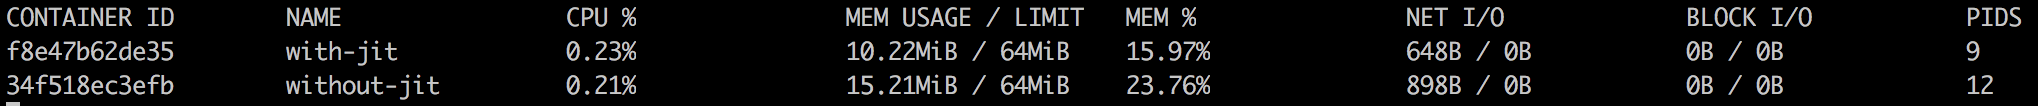
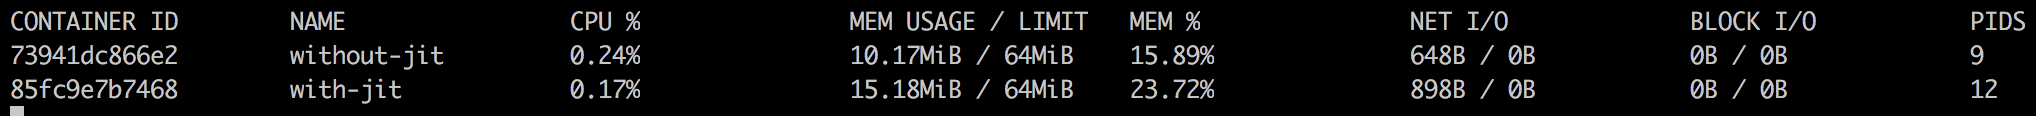
fix disabling jit + docket stats

diff --git a/README.md b/README.md
@@ -341,11 +341,11 @@ Total: reserved=1355555KB, committed=43759KB
 ## Docker Stats, Disabling JIT Compiler
 
 ```
-docker run -it --memory 64m --memory-swap 64m --name without-jit -v $(pwd)/target/classes:/src -w /src openjdk:11-jre java \
+docker run -it --memory 64m --memory-swap 64m --name with-jit -v $(pwd)/target/classes:/src -w /src openjdk:11-jre java \
 --add-exports=java.management/sun.management=docker.limits \
 --module-path . --module docker.limits/pbouda.sandbox.docker.MemoryFootprint
 
-docker run -it --memory 64m --memory-swap 64m --name with-jit -v $(pwd)/target/classes:/src -w /src openjdk:11-jre java -Djava.compiler=NONE  \
+docker run -it --memory 64m --memory-swap 64m --name without-jit -v $(pwd)/target/classes:/src -w /src openjdk:11-jre java -Djava.compiler=NONE  \
 --add-exports=java.management/sun.management=docker.limits \
 --module-path . --module docker.limits/pbouda.sandbox.docker.MemoryFootprint
 ```
